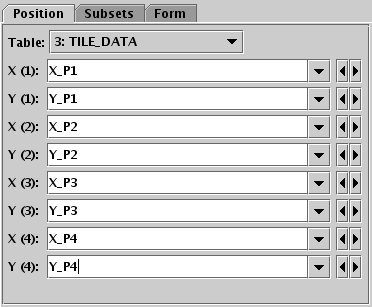
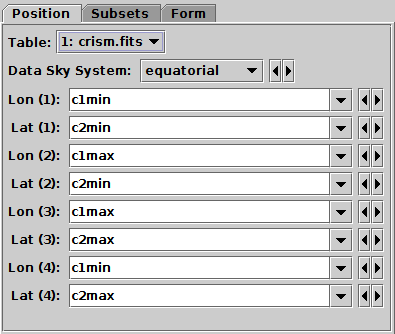
topcat: default EPN-TAP bounding box in sky quad plot
The Quad layer control lon/lat selectors now default to
the corners of the EPN-TAP v2.0 bounding box.
This is a convenience for using the sky plot with EPN-TAP (planetary)
data.

diff --git a/topcat/src/main/uk/ac/starlink/topcat/plot2/SkyPlotWindow.java b/topcat/src/main/uk/ac/starlink/topcat/plot2/SkyPlotWindow.java
@@ -190,7 +190,7 @@ public class SkyPlotWindow
                 ColumnDataComboBoxModel latModel = getColumnSelector( 0, 1 );
                 SkySys currentSys = dataSysSpecifier_.getSpecifiedValue();
                 SkySys sys = new ColPopulator( lonModel, latModel )
-                            .attemptPopulate( currentSys );
+                            .attemptPopulate1( currentSys );
                 if ( sys != null && sys != currentSys ) {
                     dataSysSpecifier_.setSpecifiedValue( sys );
                 }
@@ -212,6 +212,61 @@ public class SkyPlotWindow
                                   lonlatInfos[ ipos * 2 + 1 ] );
                     }
                 }
+                else if ( npos_ == 4 ) {
+                    attemptPopulateEpn4();
+                }
+            }
+        }
+
+        /**
+         * Tries to find 4 lon/lat bounding box coordinate pairs
+         * in a way that will work for EPN-TAP tables.
+         * The implementation is hacky and looks at EPN-TAP-defined
+         * column names. 
+         * Really I should be looking for UCDs with ;stat.min/;stat.max
+         * modifiers, but I expect that the large majority of cases
+         * where information in this form is available will be from
+         * EPN-TAP tables with these known column names, so just do it
+         * the dumb way for now until it becomes clear that it's
+         * worth the effort to be smarter.
+         */
+        private boolean attemptPopulateEpn4() {
+            ValueInfo[] infos = CoordPanel.getInfos( getColumnSelector( 0, 0 ));
+            ValueInfo c1minInfo = null;
+            ValueInfo c1maxInfo = null;
+            ValueInfo c2minInfo = null;
+            ValueInfo c2maxInfo = null;
+            for ( ValueInfo info : infos ) {
+                String name = info.getName();
+                if ( "c1min".equals( name ) ) {
+                    c1minInfo = info;
+                }
+                else if ( "c1max".equals( name ) ) {
+                    c1maxInfo = info;
+                }
+                else if ( "c2min".equals( name ) ) {
+                    c2minInfo = info;
+                }
+                else if ( "c2max".equals( name ) ) {
+                    c2maxInfo = info;
+                }
+            }
+            if ( c1minInfo != null && c1maxInfo != null &&
+                 c2minInfo != null && c2maxInfo != null ) {
+                boolean success =
+                    populate( getColumnSelector( 0, 0 ), c1minInfo ) &
+                    populate( getColumnSelector( 0, 1 ), c2minInfo ) &
+                    populate( getColumnSelector( 1, 0 ), c1maxInfo ) &
+                    populate( getColumnSelector( 1, 1 ), c2minInfo ) &
+                    populate( getColumnSelector( 2, 0 ), c1maxInfo ) &
+                    populate( getColumnSelector( 2, 1 ), c2maxInfo ) &
+                    populate( getColumnSelector( 3, 0 ), c1minInfo ) &
+                    populate( getColumnSelector( 3, 1 ), c2maxInfo );
+                assert success;
+                return success;
+            }
+            else {
+                return false;
             }
         }
     }
@@ -255,7 +310,7 @@ public class SkyPlotWindow
          * @return  sky system for which population was successfully performed,
          *          or null
          */
-        public SkySys attemptPopulate( SkySys preferredSys ) {
+        public SkySys attemptPopulate1( SkySys preferredSys ) {
 
             /* Get a list of known sky systems in order of preference;
              * use the order it comes in with the preferred one inserted
@@ -284,7 +339,7 @@ public class SkyPlotWindow
             }
 
             /* If no success, try EPN-TAP convention. */
-            ColumnData[] epnCoords = getEpnCoords();
+            ColumnData[] epnCoords = getEpnCoords1();
             if ( epnCoords != null ) {
                 lonModel_.setSelectedItem( epnCoords[ 0 ] );
                 latModel_.setSelectedItem( epnCoords[ 1 ] );
@@ -302,7 +357,7 @@ public class SkyPlotWindow
          * @return  pair of lon/lat coordinate values corresponding to EPN-TAP
          *          position, or null if they are not available
          */
-        public ColumnData[] getEpnCoords() {
+        public ColumnData[] getEpnCoords1() {
 
             /* See whether the required columns are present. */
             List<String> epnReqs =
